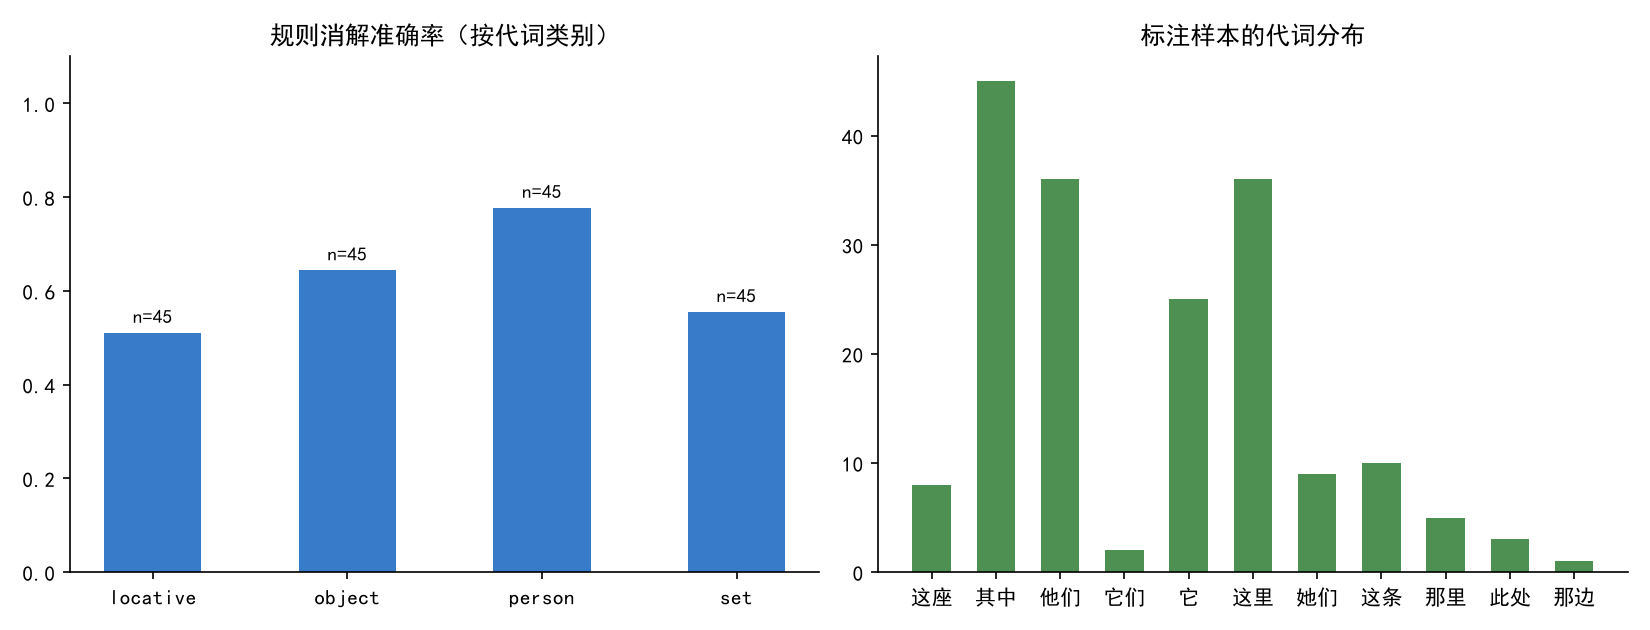
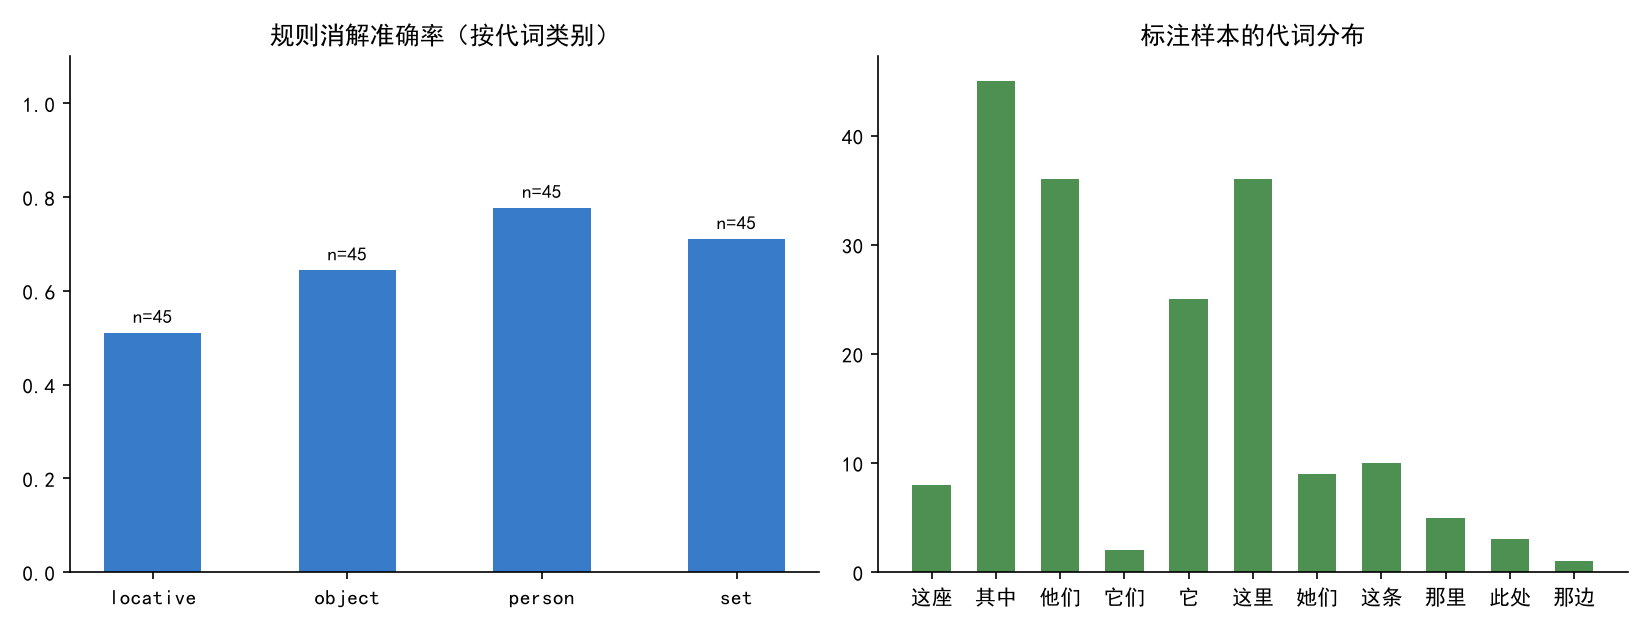
feat(task4): 集合先行词五条消解规则，总体准确率 62.2% → 66.1%
- 同句枚举+成员复指 → 前文POI集合（三大殿）
- 后指枚举 → 名词集合（东四三条到八条、冰斗/U型谷/角峰和刀岭）
- 数量回指 → 名词集合（其中有两次、其中最大的一尊）——
  after_text 以代词开头，锚点统一为 其中…
- 是其中之一 → 名词集合（718联合厂拆分后的各厂）
- 人称集合量词补"组"（两组人没有下来）
- 180 例金标逐案例复核：修复 7 条、误伤 0，留出集 58.3% → 61.7%
  （规则由开发侧失败案例设计，留出集同步提升，非过拟合）

Changed region(s): [[0.4018, 0.3317, 0.4945, 0.5127]]

diff --git a/task4/src/detect_and_resolve.py b/task4/src/detect_and_resolve.py
@@ -374,7 +374,7 @@ def main(argv=None) -> int:
                         if win_start <= e["start"] < doc_start and e["canonical"] not in pois_in_win:
                             pois_in_win.append(e["canonical"])
                     person_set = re.search(
-                        r"[一两二三四五六七八几]\s*[行位群批帮对].{0,4}"
+                        r"[一两二三四五六七八几]\s*[行位群批帮对组].{0,4}"
                         r"(人|游客|朋友|大爷|大妈|阿姨|大叔|同伴|姐妹|哥们)", window_text)
                     # POI enumeration: within the window in order of appearance, adjacent POIs separated only by 、/和/与/及-style connectors
                     win_pois = sorted((e for e in pois if win_start <= e["start"] < doc_start),
@@ -389,8 +389,42 @@ def main(argv=None) -> int:
                         window_text)
                     # Alternative means: in "可以X也可以Y", "其中" takes the set of means rather than a POI enumeration (1 case in the manual-annotation evaluation set)
                     alternatives = re.search(r"可以[^，。？！;；]{1,12}也可以", window_text)
+                    after_text = text[doc_start:doc_start + 26]
+                    # Quantity-set reference: "其中有两次(沙窝会议…)" / "其中最大的一尊位于…" — 其中 picks a
+                    # subset of a quantity-bearing set stated in the antecedent window ("5次重要会议",
+                    # "雕像700余尊") → noun set (2 manual-annotation cases). after_text starts with the
+                    # pronoun itself, so every anchor is written as 其中…
+                    quant_ref = re.search(
+                        r"^其中[有]?[两二三四五六七八九多][次尊个座条项批组轮]|"
+                        r"^其中(?:最大|最高|最深|最早|最著名|最完整)[^。！？；]{0,6}的?[一两三四五六七八九]?[尊个座条处]", after_text)
+                    # Cataphoric enumeration: members listed right after 其中
+                    # ("其中冰斗、U型谷、角峰和刀岭等…" "其中东四三条到八条…") → noun set.
+                    # the first item must directly follow 其中 (≤4 chars, no comma —
+                    # "穿梭在其中，近距离的与这水、树…" is not an enumeration);
+                    # separators exclude the comma — "其中一小部分,就这也…" is not an enumeration either.
+                    cataphoric_enum = re.search(
+                        r"^[^。！？；，,]{0,4}[一-龥A-Za-z0-9]{2,10}(?:[、和与及到至]\s*[一-龥A-Za-z0-9]{1,10}){1,5}", after_text)
+                    one_of_set = after_text.startswith("其中之一")
+                    # Same-sentence anaphoric enumeration whose members are re-referenced right after
+                    # 其中 ("以太和殿、中和殿、保和殿三大殿为中心,其中三大殿中的…") → POI set (1 case)
+                    sent_prefix = text[cur_sent_start:doc_start]
+                    same_sent_enum = re.search(
+                        r"[一-龥A-Za-z0-9]{2,10}(?:[、，和与及]\s*[一-龥A-Za-z0-9]{1,10}){1,6}", sent_prefix)
+                    enum_member_ref = bool(same_sent_enum and after_text[:8] and any(
+                        after_text[i:i + 3] in same_sent_enum.group(0)
+                        for i in range(len(after_text[:8]) - 2)))
                     if person_set:
                         case.update({"resolution": "person_set", "resolution_kind": "人称集合"})
+                    elif not qty_guard and alternatives:
+                        case.update({"resolution": "alternatives", "resolution_kind": "名词集合"})
+                    elif quant_ref:
+                        case.update({"resolution": "quant_subset", "resolution_kind": "名词集合"})
+                    elif cataphoric_enum:
+                        case.update({"resolution": "cataphoric_set", "resolution_kind": "名词集合"})
+                    elif one_of_set:
+                        case.update({"resolution": "one_of_set", "resolution_kind": "名词集合"})
+                    elif enum_member_ref:
+                        case.update({"resolution": "preceding_set", "resolution_kind": "前文POI集合"})
                     elif not qty_guard and alternatives:
                         case.update({"resolution": "alternatives", "resolution_kind": "名词集合"})
                     elif not qty_guard and enum_set:

diff --git a/README.md b/README.md
@@ -11,7 +11,7 @@
 | 1 采集与清洗 | `task1/data/raw/dataset_raw.jsonl` 的原始语料、[数据工作簿](task1/data/collected/scenic_guide_dataset.xlsx)和 `task1/data/processed/` 的清洗结果。三景区共 267 条保留记录（近重复已物理去重），均达到每景区至少 1 条官方路线和 5 篇游记的目标。官方路线分支见 `task1/data/raw/official_routes.jsonl`。 |
 | 2 实体识别 | `task2/resources/` 和 `task2/output/exp2/` 的领域词典、带位置实体、人工抽检、词频图及优化前后对比。句级抽样评测精确率 85.2%，召回率 69.7%。 |
 | 3 路线结构 | `task3/output/` 的格式分析、步骤、时间层级和官方与游客对比。46 条官方分支中 39 条有序，34 条拆成多个路线步骤，另 5 条是含多个景点的单步骤段落；叙述片段与路线步骤分开存放。对比使用 225 条游客路线。 |
-| 4 共指消解 | `task4/output/` 的代词位置、候选和消解结果，以及 180 例冻结人工标注。总体准确率 63.3%，留出集 58.3%。报告列出正确与失败例。 |
+| 4 共指消解 | `task4/output/` 的代词位置、候选和消解结果，以及 180 例冻结人工标注。总体准确率 66.1%，留出集 61.7%。报告列出正确与失败例。 |
 | 5 条件建议 | `task5/output/` 的原句、映射表 Excel/JSON、分组图和抽查。候选 1,044 对，过滤 308 对非游览建议（住宿设施/外卖/菜单/广告/吐槽/抒情/跨景区/残片/叙述）后去重保留 722 条映射（357 条带显式条件）。52 条分层抽检正确率 82.7%（正确与边界判定合计；边界切分 11、误抽 3、非游览主题 3、条件不匹配 2），漏抽排查 20 句中 3 句真漏抽。 |
 | 6 知识图谱 | `task6/output/` 的节点和边 CSV、GraphML、静态概览、完整分景区交互图及核验结果。490 节点、2,604 边，保留先后顺序的双向证据，6/6 条经典顺序核验通过。 |
 | 7 旅游规划 Agent | [单次在线实测](task7/output/online/)保存同一批次的 14 场景汇总、结构化行程和全部轨迹（LangGraph ReAct，模型自主调用图谱工具每场景 9–19 次）。14/14 达到当批断言，14 场景混合意图解析、13 场景模型润色；报告记录首轮 8/14 的失败归因与修复。 |

diff --git a/task4/README.md b/task4/README.md
@@ -1,6 +1,6 @@
 # 实验 4 程序性知识的共指消解
 
-在 245 篇游记中检测出 1,877 处代词，输出来源、字符偏移、候选与消解结果。规则结合 POI、距离、语义类别和句子景区归属。冻结人工标注共 180 例，按文档划分开发 120 例和留出 60 例。综合判定准确率 63.3%（kind+identity 混合口径），开发 65.8%，留出 58.3%；其中 POI/景区先行词身份准确率 52.1%，集合成员命中率 2.1%。
+在 245 篇游记中检测出 1,877 处代词，输出来源、字符偏移、候选与消解结果。规则结合 POI、距离、语义类别和句子景区归属。冻结人工标注共 180 例，按文档划分开发 120 例和留出 60 例。综合判定准确率 66.1%（kind+identity 混合口径），开发 68.3%，留出 61.7%；其中 POI/景区先行词身份准确率 49.3%，集合成员命中率 2.1%。集合类先行词新增五条规则：同句枚举+成员复指、后指枚举、数量回指（“其中有两次”“最大的一尊”）、“其中之一”、人称集合量词补“组”。
 
 `output/pronoun_cases.jsonl` 保存逐例结果，`resources/eval/annotation_gold.json` 保存人工先行词与判定备注，`evaluation.json` 保存指标和误差案例。设施邻近补全的 POI 读取 task2 的 `output/exp2/contextual_facility_entities.jsonl`，读取时校验 `clean_char_count` 与实体区间，不 import task2 实体抽取代码。`output/attribution/` 保存句级景区归属结果，供消解阶段过滤景区外候选。人工标注已按 task1 去重后的 canonical 记录对齐：8 条近重复副本的共指标注按相同句子文本与相对偏移映射到 canonical 记录，标注总数不变。
 
